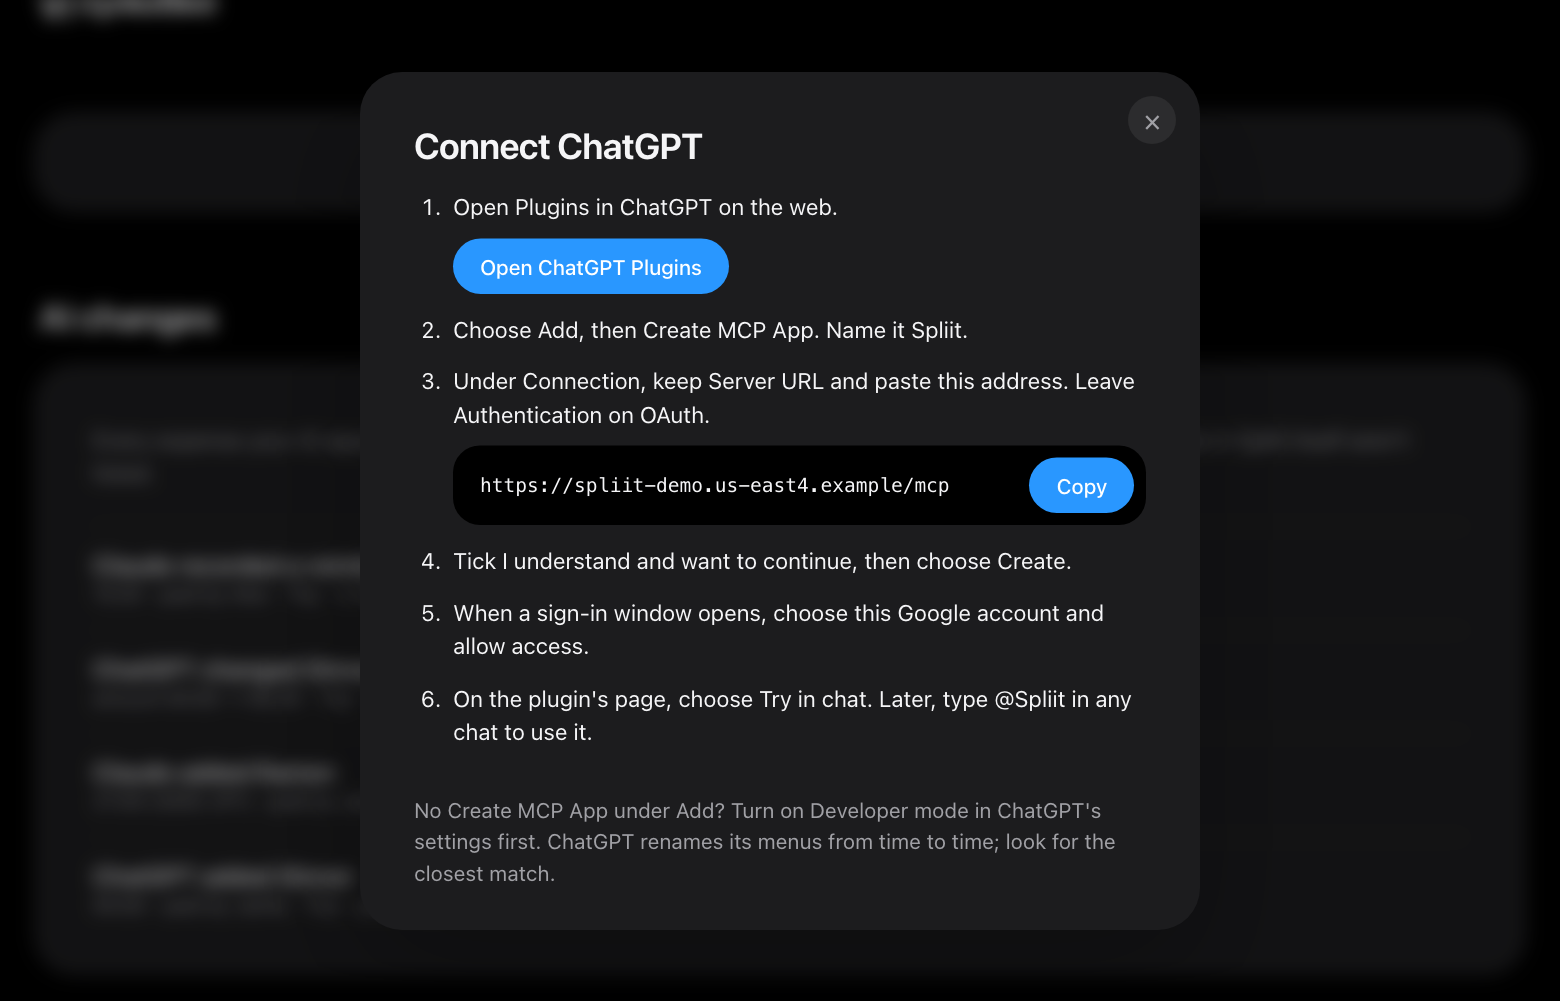
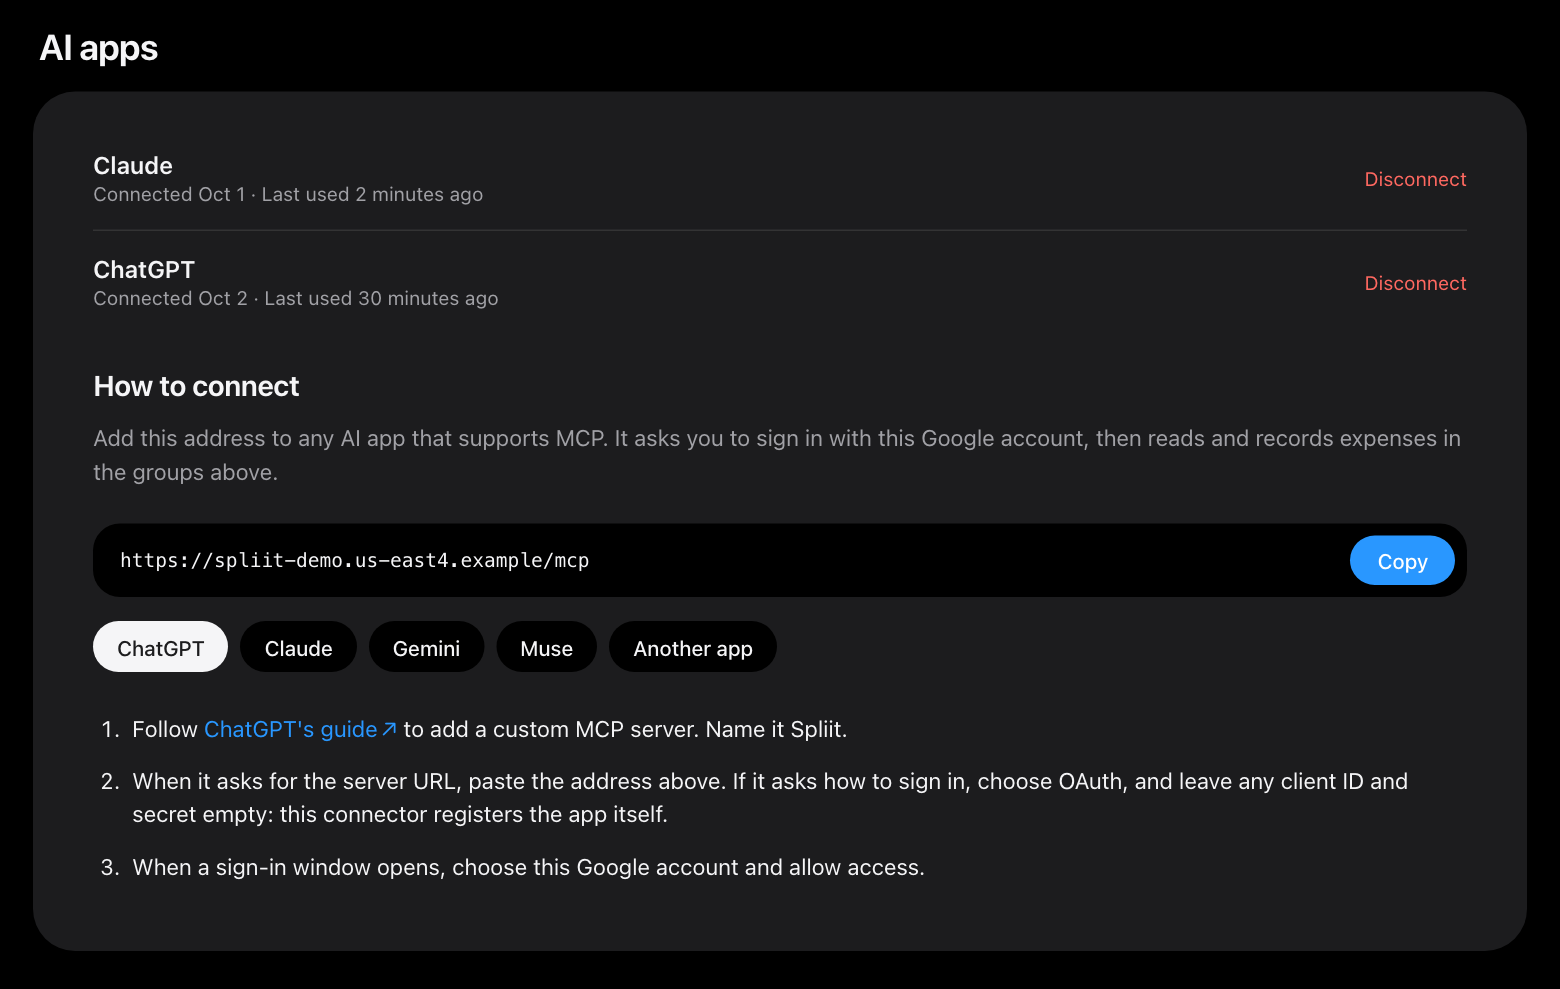
docs: connect any MCP app from How to connect; list_activity

diff --git a/README.md b/README.md
@@ -1,8 +1,8 @@
 # Private AI connector for Spliit
 
-Ask Gemini, Claude, ChatGPT or any other MCP app about your shared expenses in
-[Spliit](https://spliit.app), and tell it about new ones, from a private
-connector that runs in your own Firebase project.
+Ask your AI app about your shared expenses in [Spliit](https://spliit.app),
+and tell it about new ones, from a private connector that runs in your own
+Firebase project. Any AI app that supports MCP connectors can use it.
 
 Just paid? Dictate a message to your AI app on your phone, and let it record
 the shared expense in Spliit:
@@ -19,10 +19,10 @@ screenshots show the actual interface.
   project, with their own group links. Your data goes from Spliit to your
   project to the AI app you connect, and nowhere else: there is no shared
   server, and the developer never sees it.
-- **Reads and records.** The AI can read your groups' members, balances and
-  expenses, and add expenses, record reimbursements and change expenses. It
-  can delete only the expenses it added, and can't change groups and members.
-  Every change it makes is kept with what the expense was before.
+- **Reads and records.** The AI can read your groups' members, balances,
+  expenses and activity, and add expenses, record reimbursements and change
+  expenses. It can delete only the expenses it added, and can't change groups
+  and members. Every change it makes is kept with what the expense was before.
 - **One page to manage it.** The dashboard holds your group links, shows
   whether Spliit is answering, lists the AI apps you've connected, and lists
   every change they made.
@@ -75,11 +75,13 @@ project's Secret Manager, and your AI apps never see it.
 
 ### 4. Connect your AI app
 
-In the dashboard: **AI apps** → your app → **How to connect**.
+In the dashboard, under **AI apps** → **How to connect**, copy the address and
+choose your app to see what to do, with a link to the app's own guide where
+it has one. **Another app** covers any other app that supports MCP.
 
 <picture>
   <source media="(prefers-color-scheme: dark)" srcset="docs/images/connect-chatgpt-dark.png">
-  <img alt="The dashboard's ChatGPT connection guide, with step-by-step instructions and an example MCP address to copy" src="docs/images/connect-chatgpt-light.png" width="680">
+  <img alt="The dashboard's AI apps panel: the connected apps, an example MCP address to copy, a choice of app, and the steps for ChatGPT with a link to its guide" src="docs/images/connect-chatgpt-light.png" width="680">
 </picture>
 
 When the AI app sends you to approve the connection, only allow it if you
@@ -119,10 +121,12 @@ amounts when it was changed:
   <img alt="Dashboard AI change log: a repayment, a dinner corrected from 84.60 to 90.00, a ramen expense retaining its original JPY amount, and the original dinner entry" src="docs/images/ai-changes-light.png" width="680">
 </picture>
 
-The AI gets five read tools (`list_groups`, `get_balances`, `list_expenses`,
-`get_expense`, `list_categories`) and four that record (`create_expense`,
-`record_reimbursement`, `update_expense`, `delete_expense`). It names groups
-and members, and never sees a group's link or ID. What it records, everyone
+The AI gets six read tools (`list_groups`, `get_balances`, `list_expenses`,
+`get_expense`, `list_activity`, `list_categories`) and four that record
+(`create_expense`, `record_reimbursement`, `update_expense`, `delete_expense`).
+`list_activity` shows who added, changed or deleted what, as Spliit's own
+Activity page does, and marks what your AI apps did. The AI names groups and
+members, and never sees a group's link or ID. What it records, everyone
 in the group sees, just as if you had entered it in Spliit. Before adding an
 expense, the connector looks for one with the same amount added in the last
 three days, and asks you to confirm if it finds one. An expense paid in another
